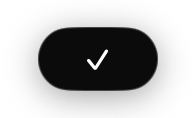
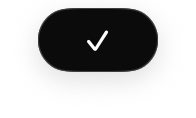
Refine Mini and menu visuals against reference

Changed region(s): [[0.1531, 0.0508, 0.8265, 0.9153]]

diff --git a/Sources/LightTTS/Views/MenuBar/MenuBarController.swift b/Sources/LightTTS/Views/MenuBar/MenuBarController.swift
@@ -32,11 +32,13 @@ import LightTTSCore
     private func makeStatusImage() -> NSImage {
         let image = NSImage(size: NSSize(width: 18, height: 18), flipped: false) { _ in
             let path = NSBezierPath()
-            path.move(to: NSPoint(x: 9, y: 15))
-            path.line(to: NSPoint(x: 16, y: 3))
-            path.line(to: NSPoint(x: 2, y: 3))
+            path.move(to: NSPoint(x: 9, y: 14.25))
+            path.line(to: NSPoint(x: 15, y: 3.25))
+            path.line(to: NSPoint(x: 3, y: 3.25))
             path.close()
-            path.lineWidth = 1.8
+            path.lineWidth = 2.5
+            path.lineJoinStyle = .round
+            path.lineCapStyle = .round
             NSColor.black.setStroke()
             path.stroke()
             return true
@@ -59,29 +61,27 @@ import LightTTSCore
         let deviceName = devices.first(where: { $0.id == selectedInput })?.name ?? "\(defaultName) (Default)"
         let input = add(deviceName, action: nil)
         let inputs = NSMenu()
-        let defaultInput = NSMenuItem(title: "System Default (\(defaultName))", action: #selector(selectInput(_:)), keyEquivalent: "")
+        let defaultInput = NSMenuItem(title: "\(defaultName) (Default)", action: #selector(selectInput(_:)), keyEquivalent: "")
         defaultInput.target = self; defaultInput.representedObject = ""; defaultInput.state = selectedInput.isEmpty ? .on : .off
         inputs.addItem(defaultInput)
-        inputs.addItem(.separator())
         for device in devices {
             let item = NSMenuItem(title: device.name, action: #selector(selectInput(_:)), keyEquivalent: "")
             item.target = self; item.representedObject = device.id; item.state = selectedInput == device.id ? .on : .off
             inputs.addItem(item)
         }
         input.submenu = inputs
-        let selected = UserDefaults.standard.string(forKey: "selectedModel") ?? "whisper-tiny.en"
-        let modelItem = add("Voice to text", action: nil)
-        let models = NSMenu()
-        for model in app.models where ModelStore.exists(model) {
-            let item = NSMenuItem(title: model.name, action: #selector(selectModel(_:)), keyEquivalent: "")
-            item.target = self; item.representedObject = model.id; item.state = model.id == selected ? .on : .off
-            models.addItem(item)
+        let modeItem = add("Voice to text", action: nil)
+        let modes = NSMenu()
+        let voice = NSMenuItem(title: "Voice to text", action: #selector(selectVoiceMode), keyEquivalent: "")
+        voice.target = self; voice.state = .on; modes.addItem(voice)
+        for name in ["Pro", "Default"] {
+            let item = NSMenuItem(title: name, action: #selector(unavailableMode(_:)), keyEquivalent: "")
+            item.target = self; modes.addItem(item)
         }
-        if models.items.isEmpty { let item = NSMenuItem(title: "Download a model in Settings…", action: #selector(modelsSettings), keyEquivalent: ""); item.target = self; models.addItem(item) }
-        modelItem.submenu = models
+        modeItem.submenu = modes
         menu.addItem(.separator())
         let version = add("Version \(Bundle.main.infoDictionary?["CFBundleShortVersionString"] as? String ?? "0.1")", action: nil); version.isEnabled = false
-        let updates = add("Check for Updates…", action: nil); updates.isEnabled = false
+        add("Check for Updates…", action: #selector(checkForUpdates))
         let quit = add("Quit", action: #selector(quit), key: "q"); quit.keyEquivalentModifierMask = .command
     }
     @discardableResult private func add(_ title: String, action: Selector?, key: String = "") -> NSMenuItem {
@@ -89,7 +89,11 @@ import LightTTSCore
     }
     @objc private func toggleRecording() { if app.state == "recording" { app.stop() } else if app.state == "idle" { app.start() } }
     @objc private func selectInput(_ sender: NSMenuItem) { guard let id = sender.representedObject as? String else { return }; UserDefaults.standard.set(id, forKey: "inputDeviceUID") }
-    @objc private func selectModel(_ sender: NSMenuItem) { guard let id = sender.representedObject as? String else { return }; UserDefaults.standard.set(id, forKey: "selectedModel"); app.warmSelected() }
+    @objc private func selectVoiceMode() { }
+    @objc private func unavailableMode(_ sender: NSMenuItem) {
+        let alert = NSAlert(); alert.messageText = "\(sender.title) is unavailable"; alert.informativeText = "LightTTS currently supports Voice to text."; alert.runModal()
+    }
+    @objc private func checkForUpdates() { if let url = URL(string: "https://github.com/imraghavojha/lighttts/releases") { NSWorkspace.shared.open(url) } }
     @objc private func history() { showSettings("Library") }
     @objc private func settings() { showSettings(nil) }
     @objc private func modelsSettings() { showSettings("Models") }

diff --git a/Sources/LightTTS/AudioCapture.swift b/Sources/LightTTS/AudioCapture.swift
@@ -5,22 +5,56 @@ final class AudioCapture {
     private let engine = AVAudioEngine()
     private let lock = NSLock()
     private var samples: [Float] = []
+    private var active = false
+    private var usesTestFile = false
     private let onLevel: (Float) -> Void
     init(onLevel: @escaping (Float) -> Void) { self.onLevel = onLevel }
     func start() throws {
+        if let path = ProcessInfo.processInfo.environment["LIGHTTTS_TEST_AUDIO"], !path.isEmpty {
+            let file = try AVAudioFile(forReading: URL(fileURLWithPath: path))
+            let format = file.processingFormat
+            guard format.sampleRate == 16000, format.channelCount == 1, format.commonFormat == .pcmFormatFloat32 else {
+                throw SpeechError.audio("Test audio must be a 16 kHz mono WAV file.")
+            }
+            usesTestFile = true
+            lock.lock(); active = true; lock.unlock()
+            DispatchQueue.global(qos: .userInitiated).async { [weak self] in
+                while let self {
+                    self.lock.lock(); let running = self.active; self.lock.unlock()
+                    guard running, let buffer = AVAudioPCMBuffer(pcmFormat: format, frameCapacity: 1024) else { return }
+                    do { try file.read(into: buffer, frameCount: 1024) } catch { return }
+                    guard buffer.frameLength > 0, let data = buffer.floatChannelData?[0] else { return }
+                    self.append(Array(UnsafeBufferPointer(start: data, count: Int(buffer.frameLength))))
+                    Thread.sleep(forTimeInterval: Double(buffer.frameLength) / 16000)
+                }
+            }
+            return
+        }
         try InputDevice.applySelection(to: engine)
         let node = engine.inputNode; let format = node.outputFormat(forBus: 0)
         guard format.sampleRate > 0, format.channelCount > 0, let target = AVAudioFormat(commonFormat: .pcmFormatFloat32, sampleRate: 16000, channels: 1, interleaved: false), let converter = AVAudioConverter(from: format, to: target) else { throw SpeechError.audio("No microphone input available") }
+        lock.lock(); active = true; lock.unlock()
         node.installTap(onBus: 0, bufferSize: 1024, format: format) { [weak self] buffer, _ in
             guard let self, let output = AVAudioPCMBuffer(pcmFormat: target, frameCapacity: AVAudioFrameCount(ceil(Double(buffer.frameLength) * 16000 / format.sampleRate)) + 32) else { return }
             var supplied = false; var error: NSError?
             converter.convert(to: output, error: &error) { _, status in if supplied { status.pointee = .noDataNow; return nil }; supplied = true; status.pointee = .haveData; return buffer }
             guard error == nil, let data = output.floatChannelData?[0] else { return }
             let chunk = Array(UnsafeBufferPointer(start: data, count: Int(output.frameLength)))
-            self.lock.lock(); self.samples.append(contentsOf: chunk); self.lock.unlock()
-            let rms = sqrt(chunk.reduce(Float(0)) { $0 + $1 * $1 } / Float(max(chunk.count, 1))); self.onLevel(min(1, rms * 8))
+            self.append(chunk)
         }
         try engine.start()
     }
-    func stop() -> [Float] { engine.inputNode.removeTap(onBus: 0); engine.stop(); lock.lock(); defer { lock.unlock() }; return samples }
+    private func append(_ chunk: [Float]) {
+        lock.lock()
+        guard active else { lock.unlock(); return }
+        samples.append(contentsOf: chunk)
+        lock.unlock()
+        let rms = sqrt(chunk.reduce(Float(0)) { $0 + $1 * $1 } / Float(max(chunk.count, 1)))
+        onLevel(min(1, rms * 8))
+    }
+    func stop() -> [Float] {
+        lock.lock(); active = false; let result = samples; lock.unlock()
+        if !usesTestFile { engine.inputNode.removeTap(onBus: 0); engine.stop() }
+        return result
+    }
 }

diff --git a/Sources/LightTTS/Views/Popup/RecordingView.swift b/Sources/LightTTS/Views/Popup/RecordingView.swift
@@ -7,10 +7,12 @@ struct RecordingView: View {
         let idle = controller.state == "idle"
         HStack(spacing: 2) {
             if controller.state == "recording" {
-                ForEach(0..<6) { index in
-                    Capsule().fill(.white)
-                        .frame(width: 2, height: max(2, 2 + CGFloat(controller.level) * [6, 10, 14, 14, 10, 6][index]))
-                }
+                HStack(spacing: 2) {
+                    ForEach(0..<6) { index in
+                        Capsule().fill(.white)
+                            .frame(width: 2, height: max(2, 2 + CGFloat(controller.level) * [6, 10, 14, 14, 10, 6][index]))
+                    }
+                }.offset(x: -1)
             } else if controller.state == "processing" {
                 ProgressView().controlSize(.mini).environment(\.colorScheme, .dark)
             } else if controller.state == "done" {
@@ -20,10 +22,11 @@ struct RecordingView: View {
                     .help(controller.message)
             }
         }
-        .frame(width: idle ? 48 : 60, height: idle ? 10 : 32)
-        .background(Color(red: 0.043, green: 0.043, blue: 0.047), in: Capsule())
-        .overlay(Capsule().strokeBorder(.white.opacity(0.24), lineWidth: 0.5))
-        .shadow(color: .black.opacity(0.35), radius: 8, y: 3)
+        .frame(width: idle ? 45 : 60, height: idle ? 8 : 32)
+        .background(idle ? Color(red: 31/255, green: 31/255, blue: 34/255) : Color(red: 11/255, green: 11/255, blue: 12/255), in: Capsule())
+        .overlay(Capsule().strokeBorder(idle ? Color(red: 79/255, green: 79/255, blue: 80/255) : Color(red: 64/255, green: 64/255, blue: 64/255), lineWidth: 0.5))
+        .shadow(color: idle ? .clear : .black.opacity(0.12), radius: 6, y: 4)
+        .offset(y: idle ? 0 : -9.5)
         .animation(.easeOut(duration: 0.15), value: idle)
         .animation(.easeOut(duration: 0.08), value: controller.level)
         .frame(width: 240, height: 160)

diff --git a/docs/ui-shots/README.md b/docs/ui-shots/README.md
@@ -5,3 +5,5 @@
 `popup-*` captures are from the built LightTTS application with `LIGHTTTS_UI_SHOT_STATE` selecting a deterministic state and `LIGHTTTS_UI_SHOT_APPEARANCE` selecting the appearance. The recording capture uses zero level to match the quiet reference; live audio drives the waveform in normal operation. Cancellation closes the panel when Always Show is off, so there is no visible popup to crop. The test mode does not start the microphone or shortcut monitor.
 
 `menubar-*` uses `LIGHTTTS_UI_SHOT_MENU=1` to open the real native menu for capture. The light capture has no corresponding local reference. These captures verify appearance only; microphone input selection is exercised separately with Core Audio device readback.
+
+`popup-recording-wav-dark.png` is a real waveform frame from a 16 kHz mono WAV generated by `say` and `afconvert`, using `LIGHTTTS_TEST_AUDIO` and `LIGHTTTS_TEST_AUTOSTART=1`. Test audio is paced in real time, skips microphone and Accessibility permission requests, and does not paste or write history. `LIGHTTTS_TEST_AUTOSTOP_SECONDS` can stop the capture and exercise transcription.
